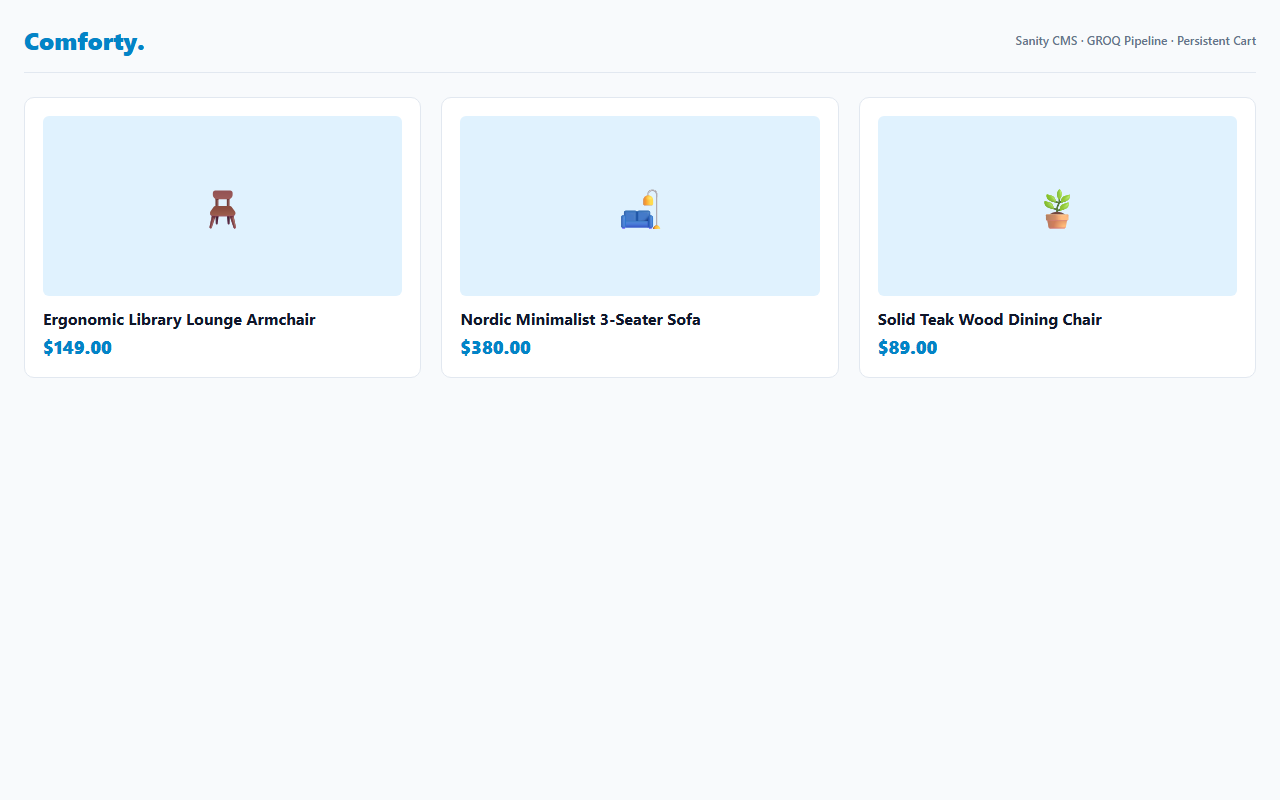
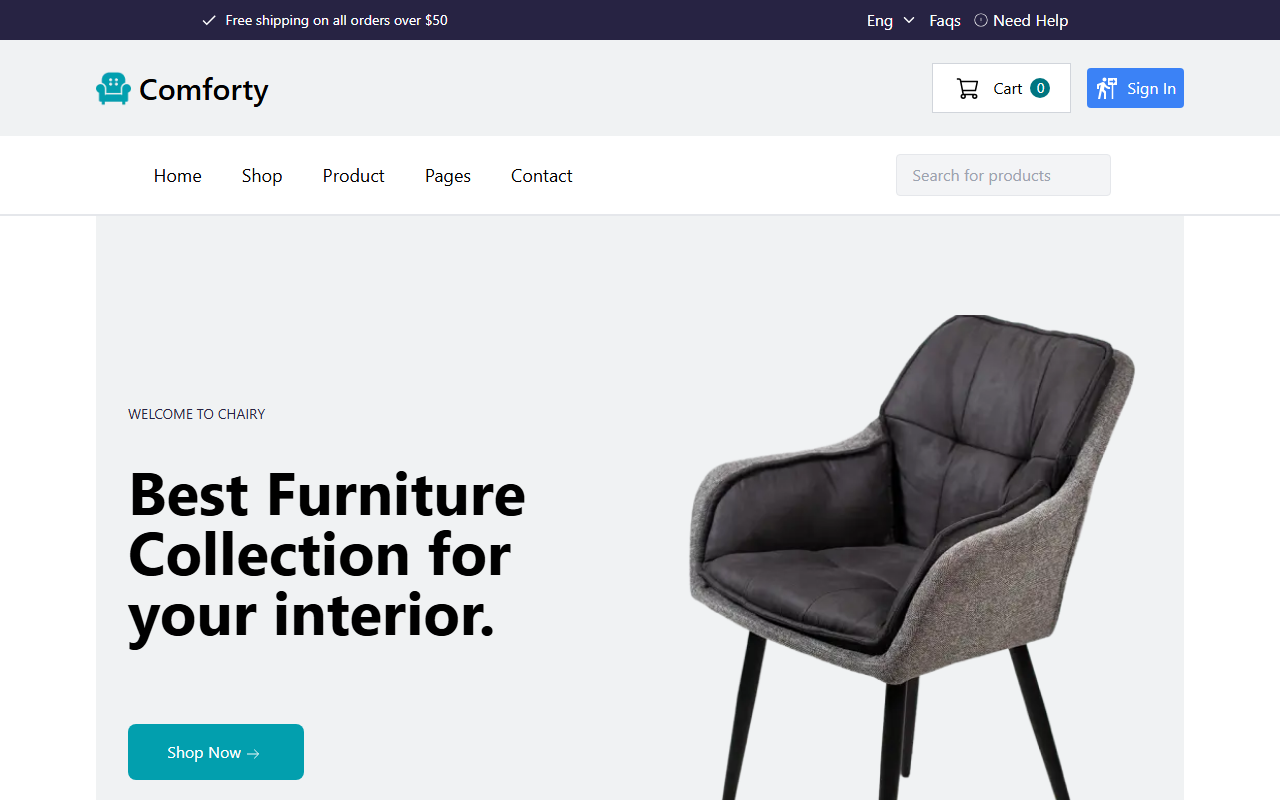
fix(previews): update live screenshots for humanoid-robotics, comforty, bait-ul-kutub, and the-arqa

diff --git a/src/content/projects.ts b/src/content/projects.ts
@@ -555,7 +555,7 @@ export const projects: Project[] = [
       caseStudy: "/projects/humanoid-robotics",
     },
     image: "/previews/humanoid-robotics.png",
-    previewUrl: "humanoid-robotics.ai",
+    previewUrl: "humanoid-robotic-book-eight.vercel.app",
     featured: false,
     deepDive: false,
   },
@@ -578,7 +578,7 @@ export const projects: Project[] = [
       github: "https://github.com/Talha-Shaikh1/the-arqa",
       caseStudy: "/projects/the-arqa",
     },
-    image: "/previews/volvelo.png",
+    image: "/previews/the-arqa.png",
     previewUrl: "thearqa.com",
     featured: false,
     deepDive: false,
